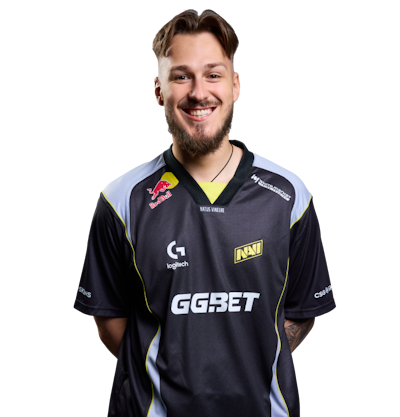
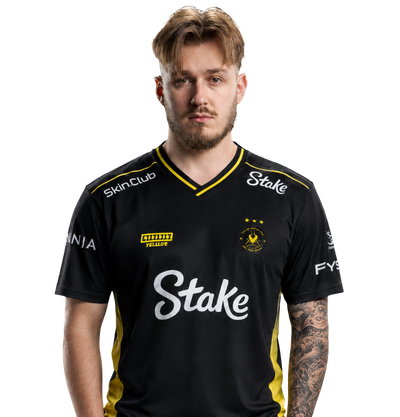
update and fix on old events

diff --git a/assets/profile.js b/assets/profile.js
@@ -8,6 +8,7 @@
      file/old.xlsx               previous ranking, for movement (optional)
      file/archives/              older ranking snapshots, for the chart (optional)
      file/kz-events-backup.json  event logos, places and full standings (optional, large)
+     file/lineup_overrides.json  corrections to who played for a team at an old event (optional)
      assets/team_logo.json       team logos (optional)
      assets/awards.json          trophy / medal icons (optional, large)
      assets/players/<Name>.png   player photos (optional)
@@ -20,6 +21,7 @@ const URLS = {
   old:     'file/old.xlsx',
   archiveDir: 'file/archives/',
   events:  'file/kz-events-backup.json',
+  lineups: 'file/lineup_overrides.json',
   players: 'file/players_updated.xlsx',
   history: 'file/history_updated.xlsx',
   matches: 'file/history.xlsx',
@@ -869,17 +871,27 @@ function eventDates() {
 }
 
 /* ── lineups ──
-   Rule: a team's lineup at any event is its roster today, except for the moves listed
-   below. Each entry says: at this event, this team played WITH `in` and WITHOUT `out`.
-   To record another roster change, add a line here (event name as in the match history;
-   "Major" in the name and capital letters do not matter). */
-const LINEUP_OVERRIDES = [
+   A team's lineup at an event is its roster today, unless a correction says otherwise.
+   Corrections live in file/lineup_overrides.json so they can be edited without touching
+   this file; the list below is only the fallback used when that file is missing.
+   Each entry: { "event": "...", "team": "...", "in": ["…"], "out": ["…"] } — "in" played
+   at that event, "out" did not. The event name is matched loosely: capitals and the word
+   "Major" are ignored, so "DreamHack Winter 2026" also matches "DreamHack Winter Major 2026".
+   Events created with the Events form save their own lineup and ignore all of this. */
+let LINEUP_OVERRIDES = [
   { event: 'DreamHack Winter 2026', team: 'Iluminar',  in: ['kilzys', 'heroghoxxt'], out: ['Gizmy', 'fl0m'] },
   { event: 'DreamHack Winter 2026', team: 'BC.Game',   in: ['Valiance'],             out: ['Perfecto'] },
   { event: 'DreamHack Winter 2026', team: 'Kappa Bar', in: ['Gizmy'],                out: ['diskyb0b'] },
   { event: 'DreamHack Winter 2026', team: 'Envy',      in: ['PTC'],                  out: ['kl1m'] },
   { event: 'DreamHack Winter 2026', team: 'Mythic',    in: ['fl0m'],                 out: ['hades'] },
 ];
+async function loadLineupOverrides() {
+  const res = await fetch(URLS.lineups, { cache: 'no-store' });
+  if (!res.ok) throw new Error('lineup_overrides.json → HTTP ' + res.status);
+  const arr = await res.json();
+  if (Array.isArray(arr)) LINEUP_OVERRIDES = arr.filter(o => o && o.event && o.team)
+    .map(o => ({ event: String(o.event), team: String(o.team), in: (o.in || []).map(String), out: (o.out || []).map(String) }));
+}
 function lineupFor(team, key) {
   // an event created with the Events form carries its own lineups: use them as they were saved
   const ev = (state.events || []).find(e => e.key === key);
@@ -1163,8 +1175,8 @@ async function bootTeam() {
   setTab(location.hash === '#history' ? 'history' : 'overview', false);
   renderHero();
 
-  const [pl, hi, ma, ol] = await Promise.allSettled([loadPlayers(), loadHistory(), loadMatches(), loadOldRanking()]);
-  [pl, hi, ma, ol].forEach(r => { if (r.status === 'rejected') console.warn(r.reason); });
+  const [pl, hi, ma, ol, lo] = await Promise.allSettled([loadPlayers(), loadHistory(), loadMatches(), loadOldRanking(), loadLineupOverrides()]);
+  [pl, hi, ma, ol, lo].forEach(r => { if (r.status === 'rejected') console.warn(r.reason); });
   state.trajectory = [];
   renderAll();
   const missing = [pl.status === 'rejected' && 'players_updated.xlsx', hi.status === 'rejected' && 'history_updated.xlsx'].filter(Boolean);
@@ -1193,8 +1205,8 @@ async function bootPlayer() {
   state._plEvents = [];
   renderPlayerHero();
 
-  const [hi, ma] = await Promise.allSettled([loadHistory(), loadMatches()]);
-  [hi, ma].forEach(r => { if (r.status === 'rejected') console.warn(r.reason); });
+  const [hi, ma, lo] = await Promise.allSettled([loadHistory(), loadMatches(), loadLineupOverrides()]);
+  [hi, ma, lo].forEach(r => { if (r.status === 'rejected') console.warn(r.reason); });
   renderPlayerAll();
   setStatus(hi.status === 'rejected' ? 'Loaded with missing file: history_updated.xlsx' : 'Player data loaded · loading trophy icons and event details…', hi.status === 'rejected' ? 'err' : 'loading');
   const extras = await Promise.allSettled([
